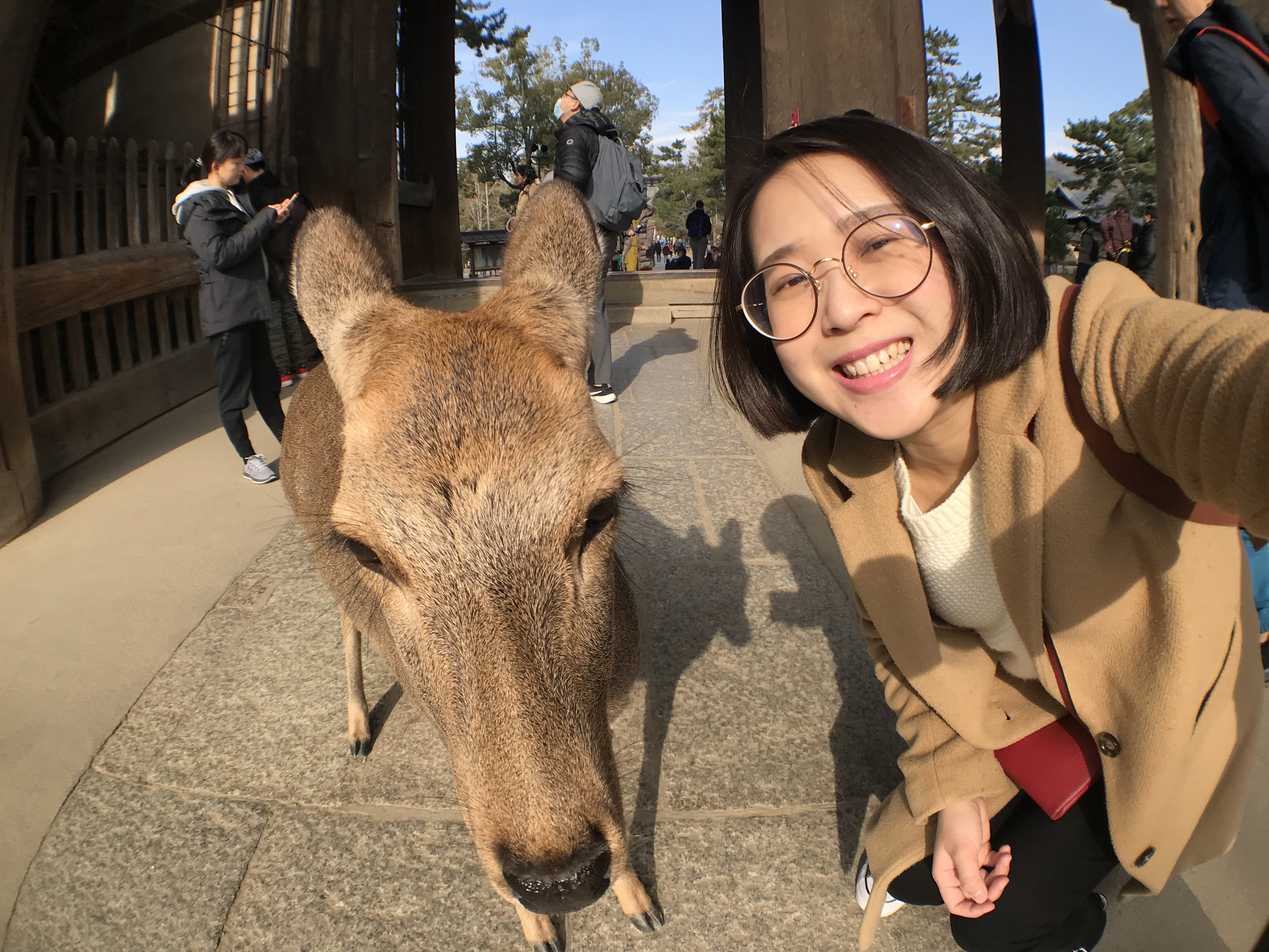
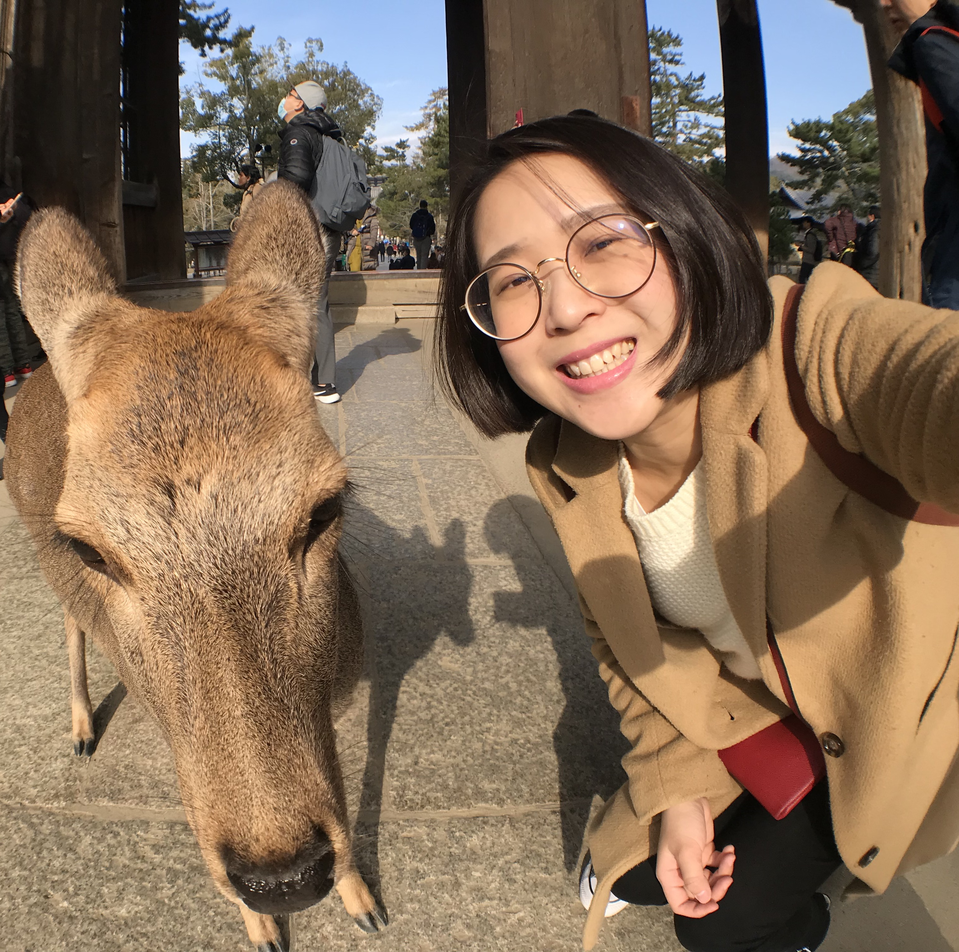
Improved web map table aesthetics.

diff --git a/javascript/external.js b/javascript/external.js
@@ -67,7 +67,14 @@ function webmap_table()
     document.write("<tr>");
     for (var column=0; column < webmaps[0].length; column++)
     {
-      document.write("<td>" + webmaps[row][column] + "</td>");
+      if (column <2){
+        document.write("<td>" + webmaps[row][column] + "</td>");
+      }
+      else{
+        document.write("<tr>");
+        document.write("<td width=100%>" + webmaps[row][column] + "</td>");
+        document.write("</tr>");
+      };
     }
     document.write("</tr>");
   }

diff --git a/index.html b/index.html
@@ -17,7 +17,7 @@
       </h1>
     </div>
     <div id="profile-picture">
-      <img src=images/profile-picture.jpg width=334px height=250px></img>
+      <img src=images/profile-picture.jpg width=250px height=250px></img>
     </div>
     <div id="welcome-text">
       My name is Ting Hsuan Yang.<br>
@@ -37,6 +37,7 @@
       <script>
       webmap_table();
       </script>
+
     </div>
   </div>
   <div id="copyright">

diff --git a/css/main_style.css b/css/main_style.css
@@ -63,8 +63,9 @@ h1 {
   font-size: 25px;
   /* set elment position to relative (relative to its normal position) */
   position: relative;
-  /* make the element to move 150px to the right (from to its normal position) */
-  left: 50px;
+  /* make the element to move 250px to the right (from to its normal position) */
+  left: 250px;
+  width: 750px;
 }
 
 #webmap-reviews {
